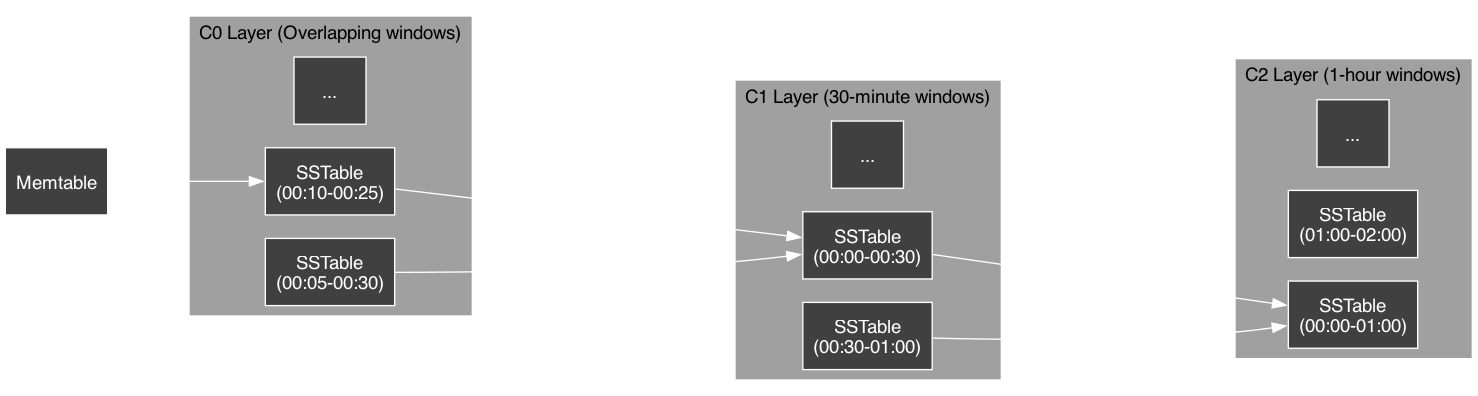
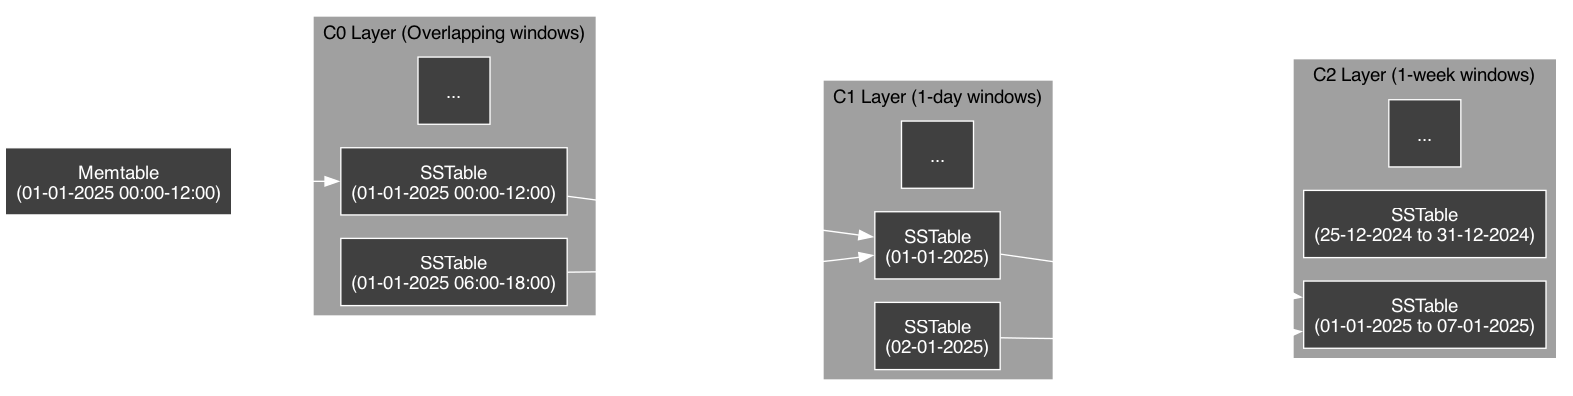
feat: update lsm tree options, benchmarking, and docs

diff --git a/benchmark/storage/lsm_tree_benchmark.cpp b/benchmark/storage/lsm_tree_benchmark.cpp
@@ -3,21 +3,23 @@
 #include <random>
 #include <filesystem>
 
+#define REGISTER_LSM_TREE_BENCHMARKS(size) \
+  BENCHMARK_REGISTER_F(LSMTreeBenchmark, PointWrite) \
+    ->Args({size}); \
+  BENCHMARK_REGISTER_F(LSMTreeBenchmark, PointRead) \
+    ->Args({size}); \
+  BENCHMARK_REGISTER_F(LSMTreeBenchmark, RangeRead) \
+    ->Args({size});
+
 class LSMTreeBenchmark : public benchmark::Fixture {
 protected:
-  const std::filesystem::path TEST_DIR{"benchmark_storage"};
-  
-  std::unique_ptr<vkdb::LSMTree<double>> lsm_tree_;
-
   void SetUp(const benchmark::State& state) override {
-    std::filesystem::create_directories(TEST_DIR);
-    lsm_tree_ = std::make_unique<vkdb::LSMTree<double>>(TEST_DIR);
+    lsm_tree_ = std::make_unique<vkdb::LSMTree<double>>("test_lsm_tree");
   }
 
   void TearDown(const benchmark::State& state) override {
     lsm_tree_->clear();
     lsm_tree_.reset();
-    std::filesystem::remove_all(TEST_DIR);
   }
 
   vkdb::Timestamp random_timestamp(vkdb::Timestamp min, vkdb::Timestamp max) {
@@ -35,6 +37,8 @@ protected:
       {}
     };
   }
+
+  std::unique_ptr<vkdb::LSMTree<double>> lsm_tree_;
 };
 
 BENCHMARK_DEFINE_F(LSMTreeBenchmark, PointWrite)(benchmark::State& state) {
@@ -116,20 +120,9 @@ BENCHMARK_DEFINE_F(LSMTreeBenchmark, RangeRead)(benchmark::State& state) {
   state.SetItemsProcessed(state.iterations());
 }
 
-BENCHMARK_REGISTER_F(LSMTreeBenchmark, PointWrite)
-  ->RangeMultiplier(2)
-  ->Range(1'000, 500'000)
-  ->Unit(benchmark::kMillisecond)
-  ->MinTime(5);
-
-BENCHMARK_REGISTER_F(LSMTreeBenchmark, PointRead)
-  ->RangeMultiplier(2)
-  ->Range(1'000, 500'000)
-  ->Unit(benchmark::kMillisecond)
-  ->MinTime(5);
-
-BENCHMARK_REGISTER_F(LSMTreeBenchmark, RangeRead)
-  ->RangeMultiplier(2)
-  ->Range(1'000, 500'000)
-  ->Unit(benchmark::kMillisecond)
-  ->MinTime(5);
+REGISTER_LSM_TREE_BENCHMARKS(1'000)
+REGISTER_LSM_TREE_BENCHMARKS(10'000)
+REGISTER_LSM_TREE_BENCHMARKS(100'000)
+REGISTER_LSM_TREE_BENCHMARKS(1'000'000)
+REGISTER_LSM_TREE_BENCHMARKS(10'000'000)
+REGISTER_LSM_TREE_BENCHMARKS(100'000'000)

diff --git a/include/storage/vkdb/lsm_tree.h b/include/storage/vkdb/lsm_tree.h
@@ -332,41 +332,39 @@ private:
    * @brief Time window sizes of each Ck layer.
    * @details The time window sizes are in seconds.
    * - C0: 0 (any overlap)
-   * - C1: 30 minutes
-   * - C2: 1 hour
-   * - C3: 1 day
-   * - C4: 1 week
-   * - C5: 1 month
-   * - C6: 3 months
-   * - C7: 1 year
+   * - C1: 1 day
+   * - C2: 1 week
+   * - C3: 1 month
+   * - C4: 3 months
+   * - C5: 6 months
+   * - C6: 1 year
+   * - C7: 3 years
    * 
    */
   static constexpr std::array<size_type, LAYER_COUNT> CK_LAYER_WINDOW_SIZE{
     0,
-    1800,
-    3600,
-    86400,
-    604800,
-    2592000,
-    7776000,
-    31536000
+    86'400,
+    604'800,
+    2'592'000,
+    7'776'000,
+    15'552'000,
+    31'536'000,
+    94'608'000
   };
 
   /**
    * @brief Number of SSTables in each Ck layer.
-   * @details The number of SSTables in each Ck layer is monotonically
-   * non-decreasing, either multiplying by a factor of 10 or staying the same.
    * 
    */
   static constexpr std::array<size_type, LAYER_COUNT> CK_LAYER_TABLE_COUNT{
-    10,
-    100,
-    100,
-    1000,
-    1000,
-    1000,
-    10000,
-    10000
+    32,
+    2'048,
+    1'024,
+    512,
+    256,
+    128,
+    64,
+    32
   };
 
   /**

diff --git a/test/storage/lsm_tree_test.cpp b/test/storage/lsm_tree_test.cpp
@@ -77,8 +77,6 @@ TEST_F(LSMTreeTest, CanPutAndGetWithFlushing) {
     auto value{lsm_tree_->get(key)};
     EXPECT_EQ(value, std::nullopt);
   }
-
-  EXPECT_EQ(lsm_tree_->sstableCount(), 10);
 }
 
 TEST_F(LSMTreeTest, CanUpdateValuesOfKeysWithFlushing) {
@@ -97,8 +95,6 @@ TEST_F(LSMTreeTest, CanUpdateValuesOfKeysWithFlushing) {
     auto value{lsm_tree_->get(key)};
     EXPECT_EQ(value, i + 1);
   }
-
-  EXPECT_EQ(lsm_tree_->sstableCount(), 10);
 }
 
 TEST_F(LSMTreeTest, CanGetRangeOfEntriesWithoutFlushing) {
@@ -261,7 +257,7 @@ TEST_F(LSMTreeTest, CanReplayWriteAheadLog) {
 }
 
 TEST_F(LSMTreeTest, CanPutWithFlushing) {
-  for (Timestamp i{0}; i < 100'000; ++i) {
+  for (Timestamp i{0}; i < 100'000'000; ++i) {
     TimeSeriesKey key{i, "metric", {}};
     lsm_tree_->put(key, i);
   }

diff --git a/test/query/friendly_builder_test.cpp b/test/query/friendly_builder_test.cpp
@@ -237,7 +237,7 @@ TEST_F(FriendlyQueryBuilderTest, ThrowsWhenInvalidMetric) {
 
   EXPECT_THROW(
     query()
-      .put(0, std::string(TimeSeriesKey::MAX_METRIC_LENGTH, '\0'), {}, 0)
+      .put(0, std::string(TimeSeriesKey::MAX_METRIC_LENGTH + 1, '\0'), {}, 0)
       .execute(),
     std::runtime_error
   );

diff --git a/include/storage/vkdb/mem_table.h b/include/storage/vkdb/mem_table.h
@@ -22,7 +22,7 @@ public:
   using size_type = uint64_t;
   using table_type = std::map<const key_type, mapped_type>;
 
-  static constexpr size_type C0_LAYER_SSTABLE_MAX_ENTRIES{1'000};
+  static constexpr size_type C0_LAYER_SSTABLE_MAX_ENTRIES{100'000};
 
   /**
    * @brief Construct a new MemTable object.

diff --git a/include/query/vkdb/friendly_builder.h b/include/query/vkdb/friendly_builder.h
@@ -254,7 +254,7 @@ public:
   ) {
     if (
       metric.empty() ||
-      metric.length() >= TimeSeriesKey::MAX_METRIC_LENGTH
+      metric.length() > TimeSeriesKey::MAX_METRIC_LENGTH
     ) {
       throw std::runtime_error{
         "FriendlyQueryBuilder::get(): Invalid metric '" + metric + "'."

diff --git a/include/storage/vkdb/time_series_key.h b/include/storage/vkdb/time_series_key.h
@@ -93,7 +93,7 @@ public:
    * @brief Metric width.
    * 
    */
-  static constexpr auto MAX_METRIC_LENGTH{64};
+  static constexpr auto MAX_METRIC_LENGTH{15};
 
   /**
    * @brief Construct a new TimeSeriesKey object.

diff --git a/docs/1_internals.md b/docs/1_internals.md
@@ -21,21 +21,21 @@ The LSM tree uses time-window compaction to efficiently organise and merge SSTab
 
 | Layer | Time Window | Max. SSTables |
 |-------|------------|--------------|
-| C0 | Overlapping | 10 |
-| C1 | 30 minutes | 100 |
-| C2 | 1 hour | 100 |
-| C3 | 1 day | 1,000 |
-| C4 | 1 week | 1,000 |
-| C5 | 1 month | 1,000 |
-| C6 | 3 months | 10,000 |
-| C7 | 1 year | 10,000 |
+| C0 | Overlapping | 32 |
+| C1 | 1 day | 2,048 |
+| C2 | 1 week | 1,024 |
+| C3 | 1 month | 512 |
+| C4 | 3 months | 256 |
+| C5 | 6 months | 128 |
+| C6 | 1 year | 64 |
+| C7 | 3 years | 32 |
 
-When the memtable fills up, it's flushed to C0 as an SSTable. C0 acts as a buffer for the later layers, and when it exceeds its SSTable limit, all the SSTables are merged into C1 at once, with each SSTable spanning a 30-minute window.
+When the memtable fills up, it's flushed to C0 as an SSTable. C0 acts as a buffer for the later layers, and when it exceeds its SSTable limit, all the SSTables are merged into C1 at once, with each SSTable spanning a 1-day window.
 
 When any other layer exceeds its SSTable limit, only its oldest, excess SSTables are merged with the next layer's SSTables based on the layer's time window. For example, if C1 has too many SSTables:
 
 1. The oldest SSTables from C1 are selected.
-2. Any overlapping SSTables in C2 are identified based on 1-hour time windows.
+2. Any overlapping SSTables in C2 are identified based on 1-week time windows.
 3. The selected SSTables are merged into new SSTables in C2.
 4. Original SSTables are removed after successful merge.
 

diff --git a/README.md b/README.md
@@ -86,20 +86,20 @@ The LSM tree uses time-window compaction to efficiently organise and merge SSTab
 
 | Layer | Time Window | Max. SSTables |
 |-------|------------|--------------|
-| C0 | Overlapping | 10 |
-| C1 | 30 minutes | 100 |
-| C2 | 1 hour | 100 |
-| C3 | 1 day | 1,000 |
-| C4 | 1 week | 1,000 |
-| C5 | 1 month | 1,000 |
-| C6 | 3 months | 10,000 |
-| C7 | 1 year | 10,000 |
+| C0 | Overlapping | 32 |
+| C1 | 1 day | 2,048 |
+| C2 | 1 week | 1,024 |
+| C3 | 1 month | 512 |
+| C4 | 3 months | 256 |
+| C5 | 6 months | 128 |
+| C6 | 1 year | 64 |
+| C7 | 3 years | 32 |
 
-When the memtable fills up, it's flushed to C0 as an SSTable. C0 acts as a buffer for the later layers, and when it exceeds its SSTable limit, all the SSTables are merged into C1 at once, with each SSTable spanning a 30-minute window.
+When the memtable fills up, it's flushed to C0 as an SSTable. C0 acts as a buffer for the later layers, and when it exceeds its SSTable limit, all the SSTables are merged into C1 at once, with each SSTable spanning a 1-day window.
 
 When any other layer exceeds its SSTable limit, only its oldest, excess SSTables are merged with the next layer's SSTables based on the layer's time window. For example, if C1 has too many SSTables:
 1. The oldest SSTables from C1 are selected.
-2. Any overlapping SSTables in C2 are identified based on 1-hour time windows.
+2. Any overlapping SSTables in C2 are identified based on 1-week time windows.
 3. The selected SSTables are merged into new SSTables in C2.
 4. Original SSTables are removed after successful merge.
 
